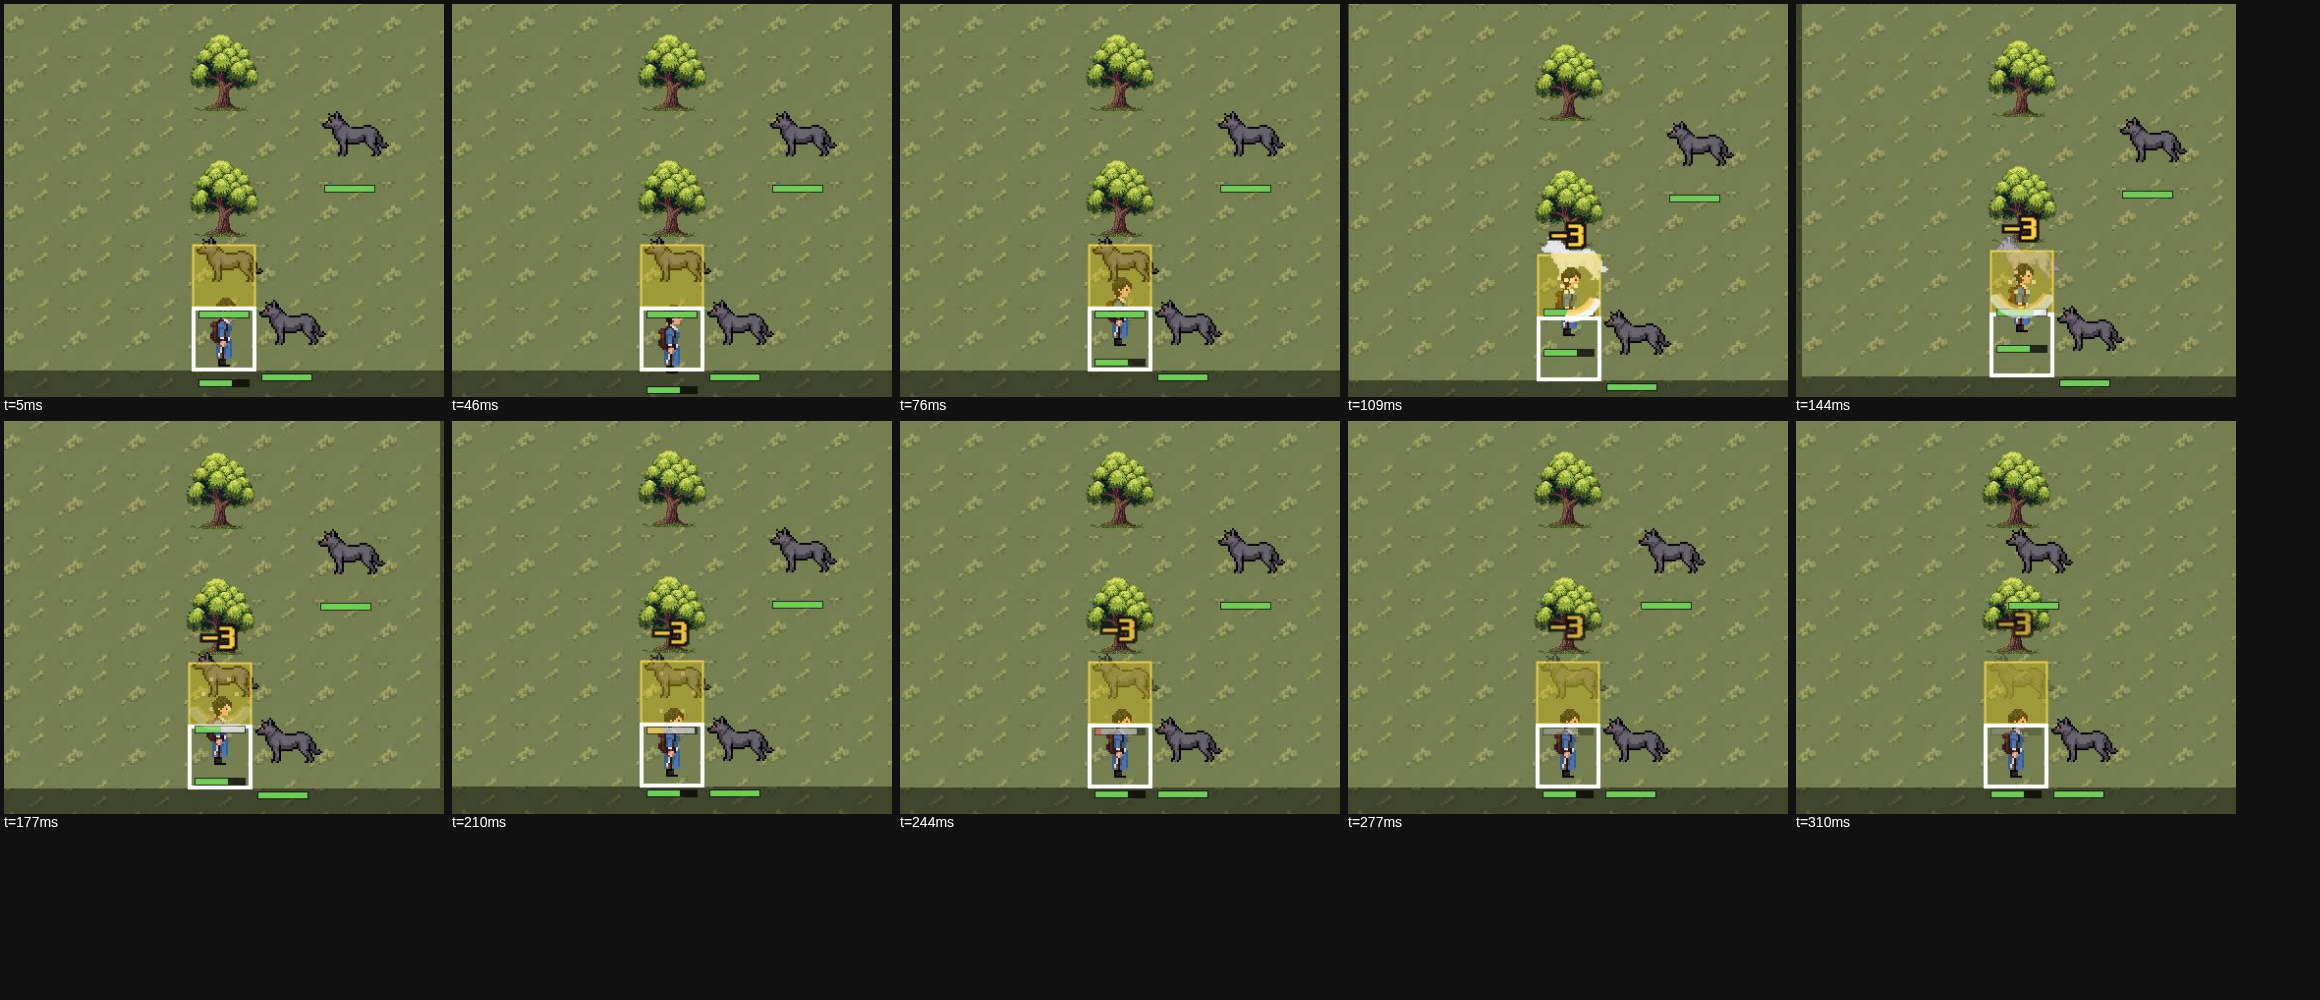
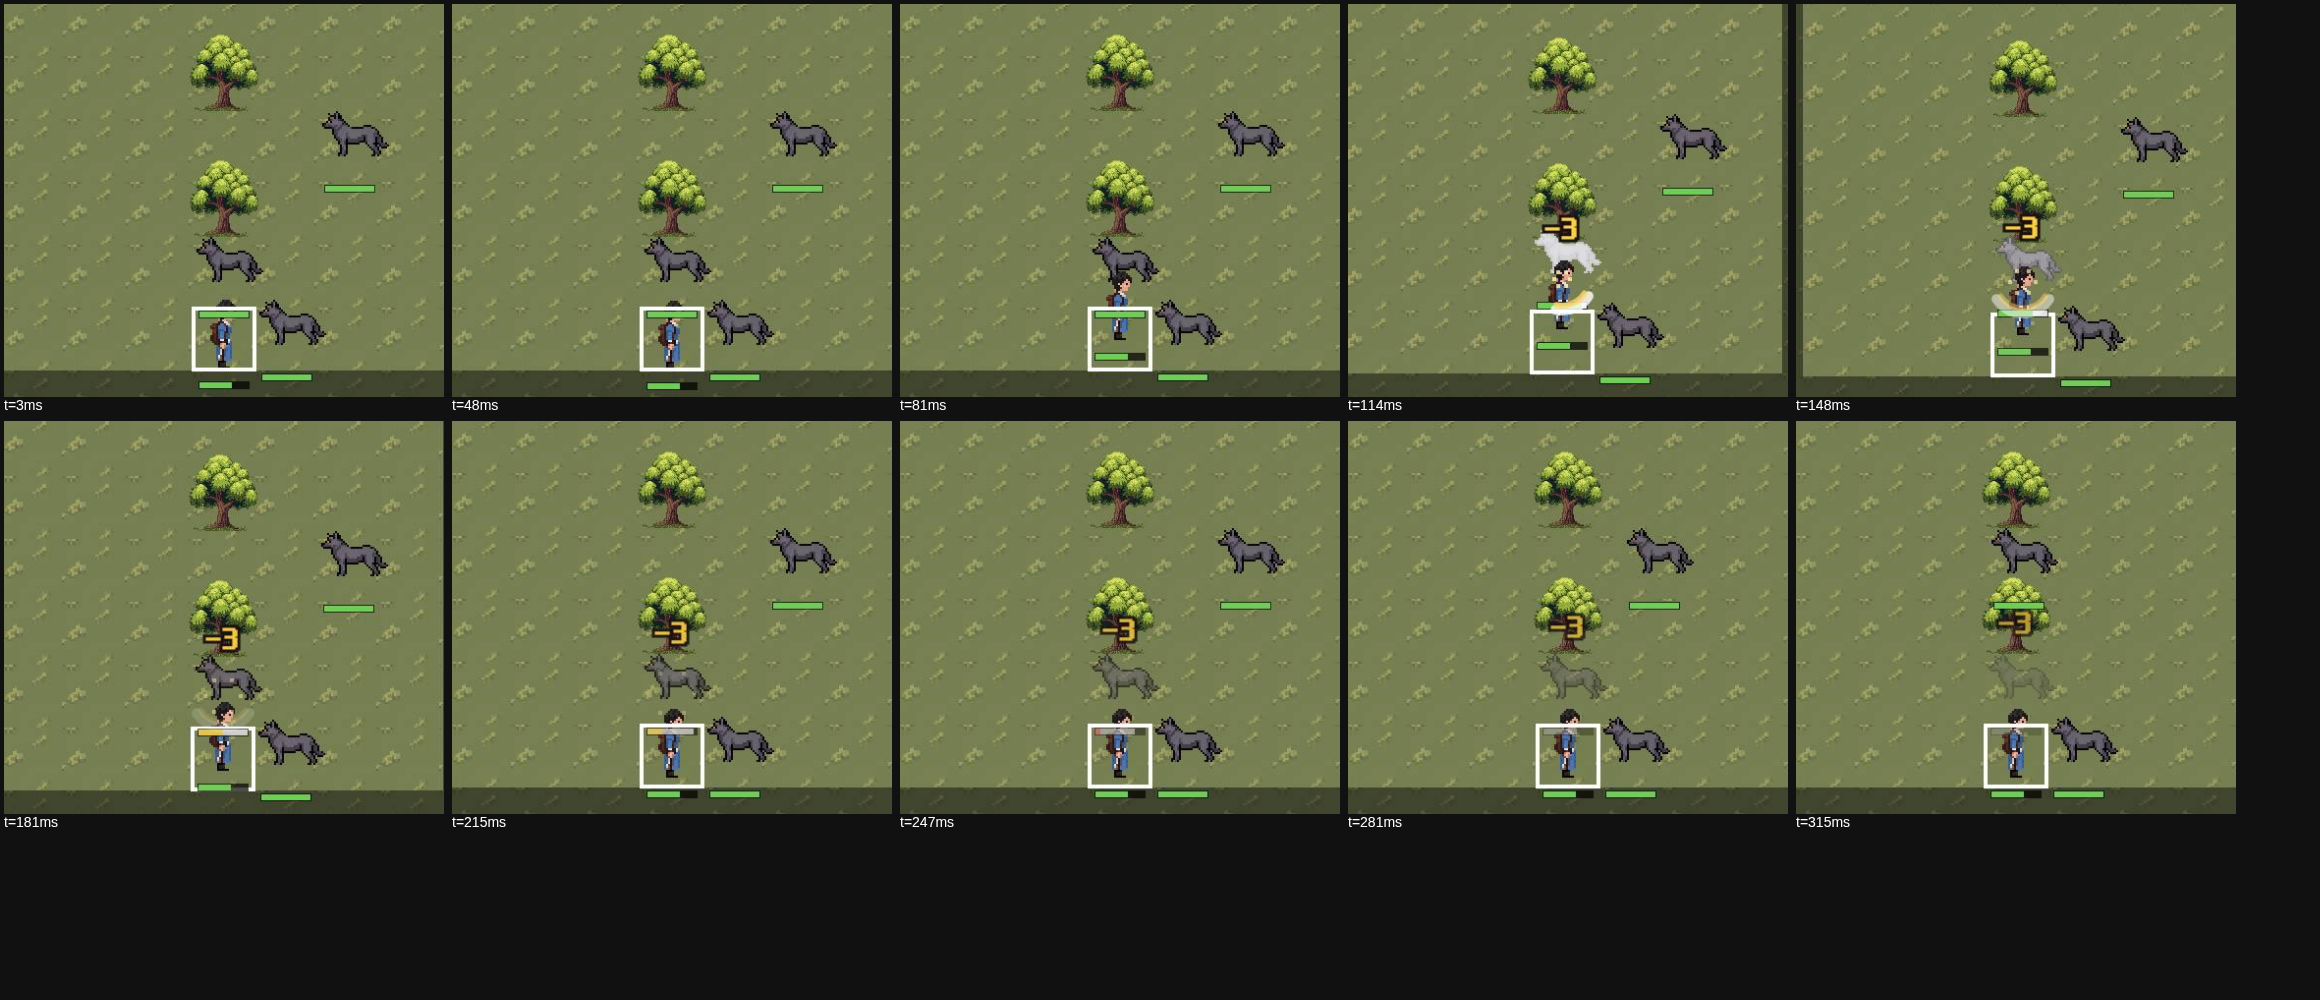
fix(render): hide the intent block on a cell where a unit is fading out

diff --git a/src/render/canvas.ts b/src/render/canvas.ts
@@ -228,7 +228,8 @@ function drawCombat(ctx: CanvasRenderingContext2D, res: RenderResources, content
     const intent = combat.intents[enemy.id]
     if (!intent) continue
     // 예고: 적이 다음 차례에 설 칸을 노란 블록으로 보여 준다(제자리면 생략).
-    if (intent.moveTo.x !== enemy.pos.x || intent.moveTo.y !== enemy.pos.y) {
+    const underGhost = fx.ghosts.some((g) => g.unit.pos.x === intent.moveTo.x && g.unit.pos.y === intent.moveTo.y)   // 쓰러지는 중인 유닛 칸에는 예고를 겹치지 않는다
+    if (!underGhost && (intent.moveTo.x !== enemy.pos.x || intent.moveTo.y !== enemy.pos.y)) {
       const bx = screenX(vp, intent.moveTo.x, size), by = screenY(vp, intent.moveTo.y, size)
       ctx.fillStyle = "rgba(255, 215, 0, 0.30)"
       ctx.fillRect(bx, by, size, size)
